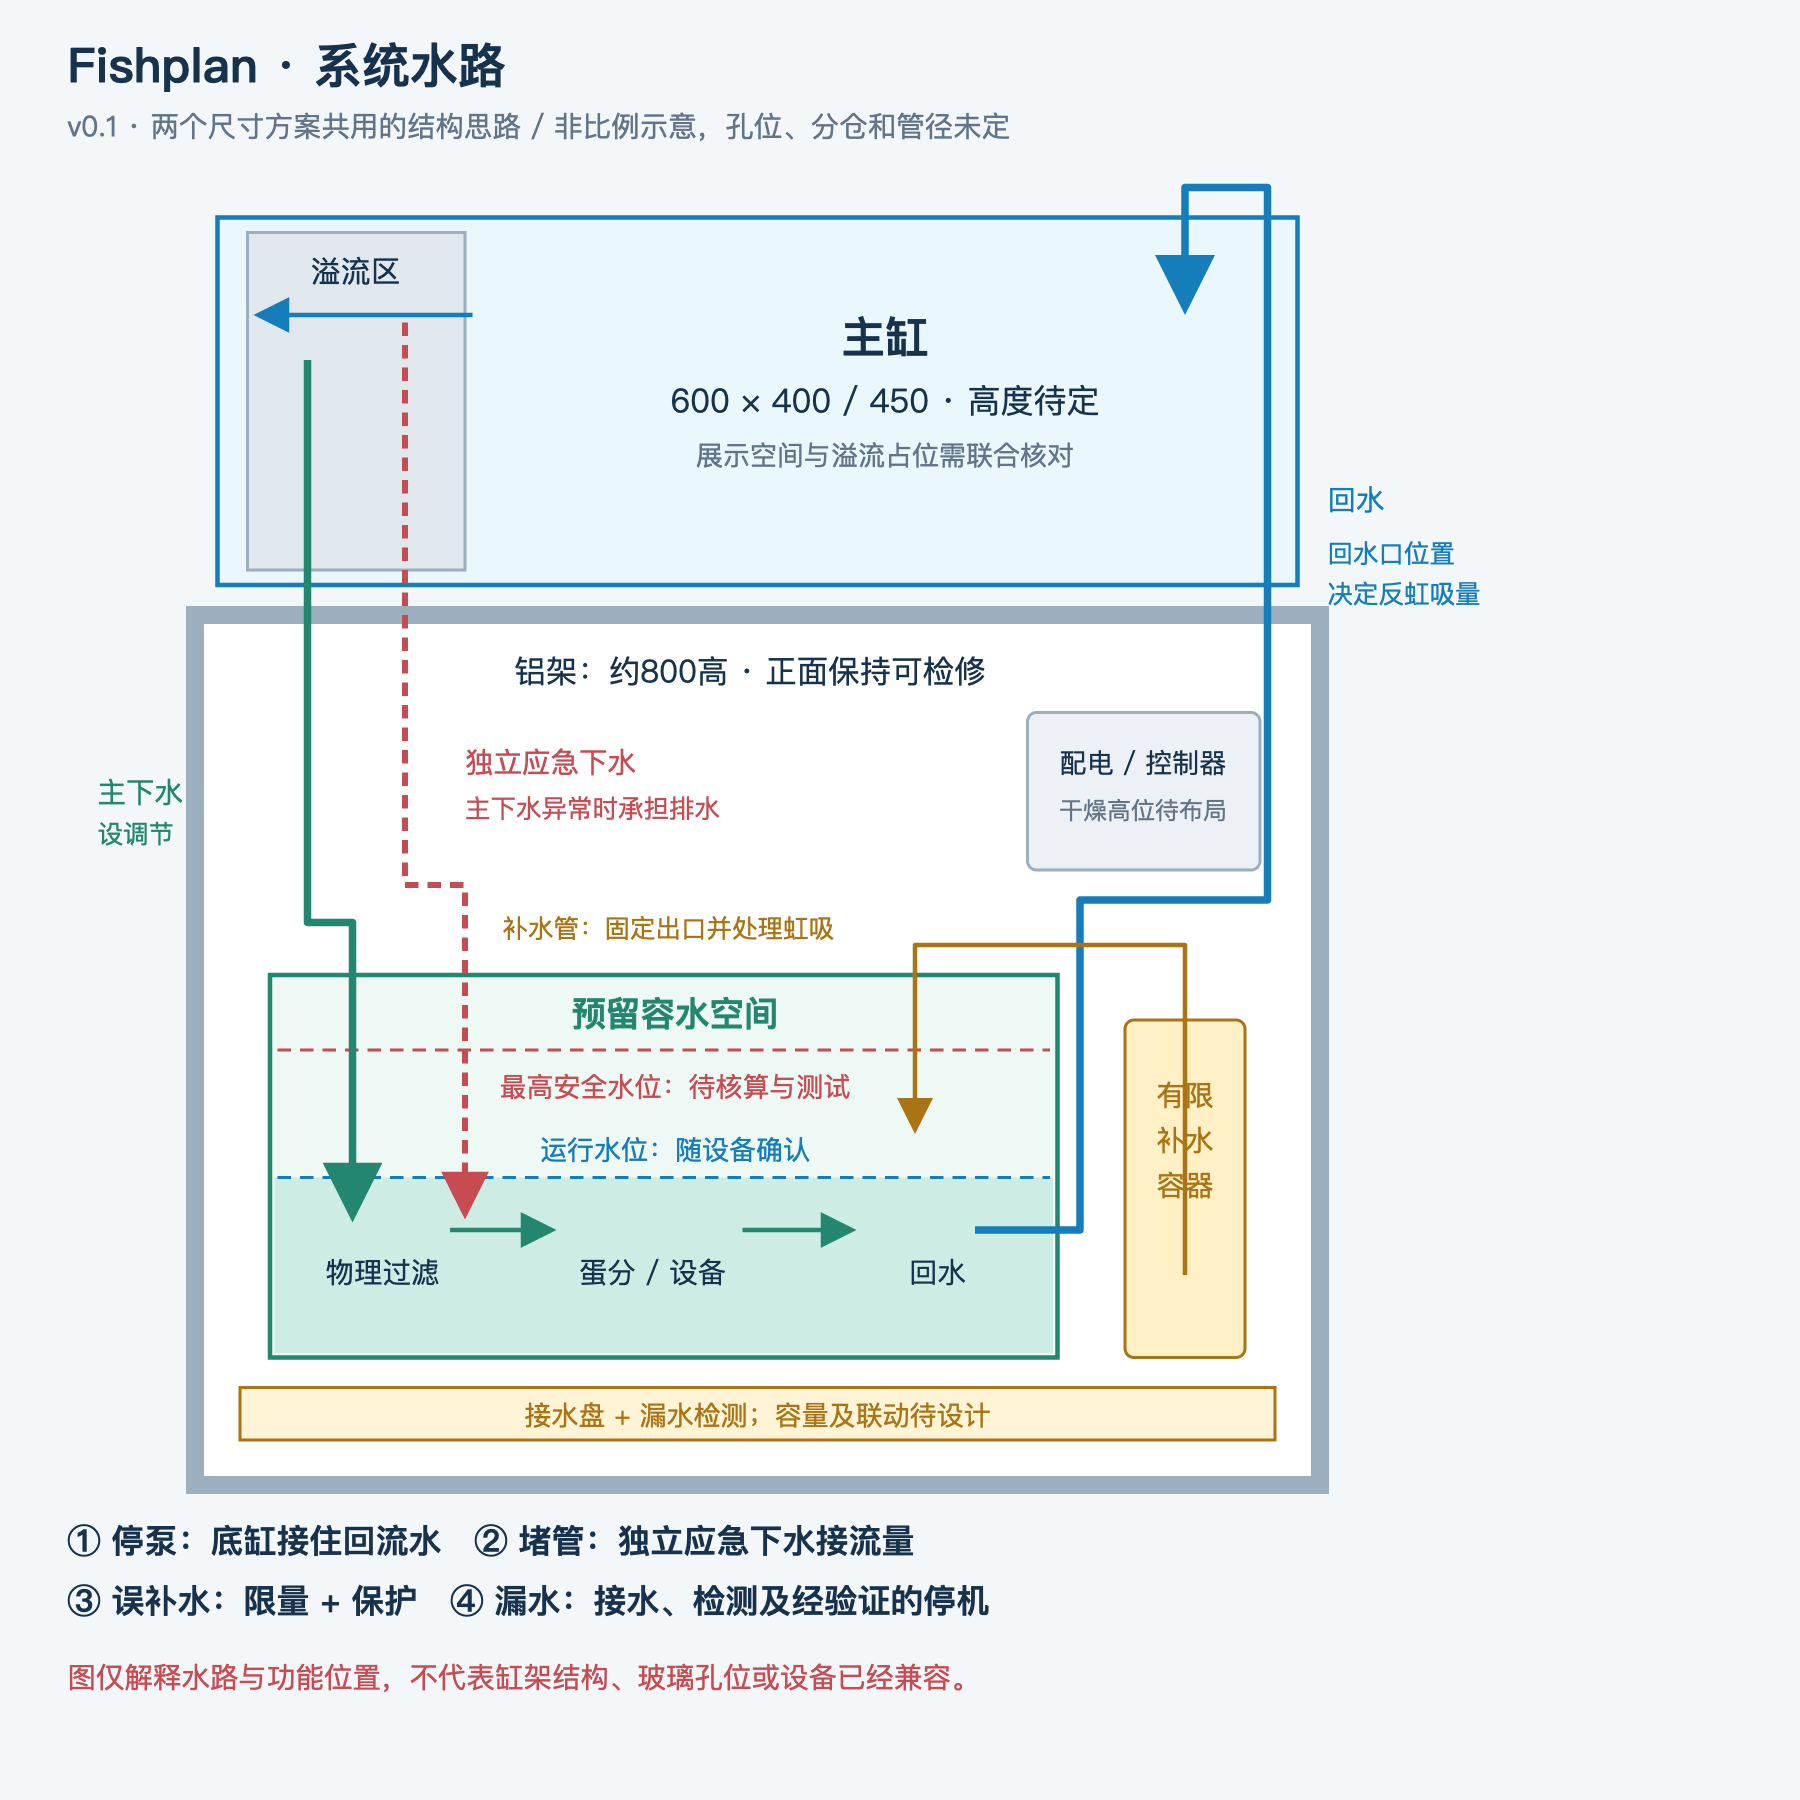
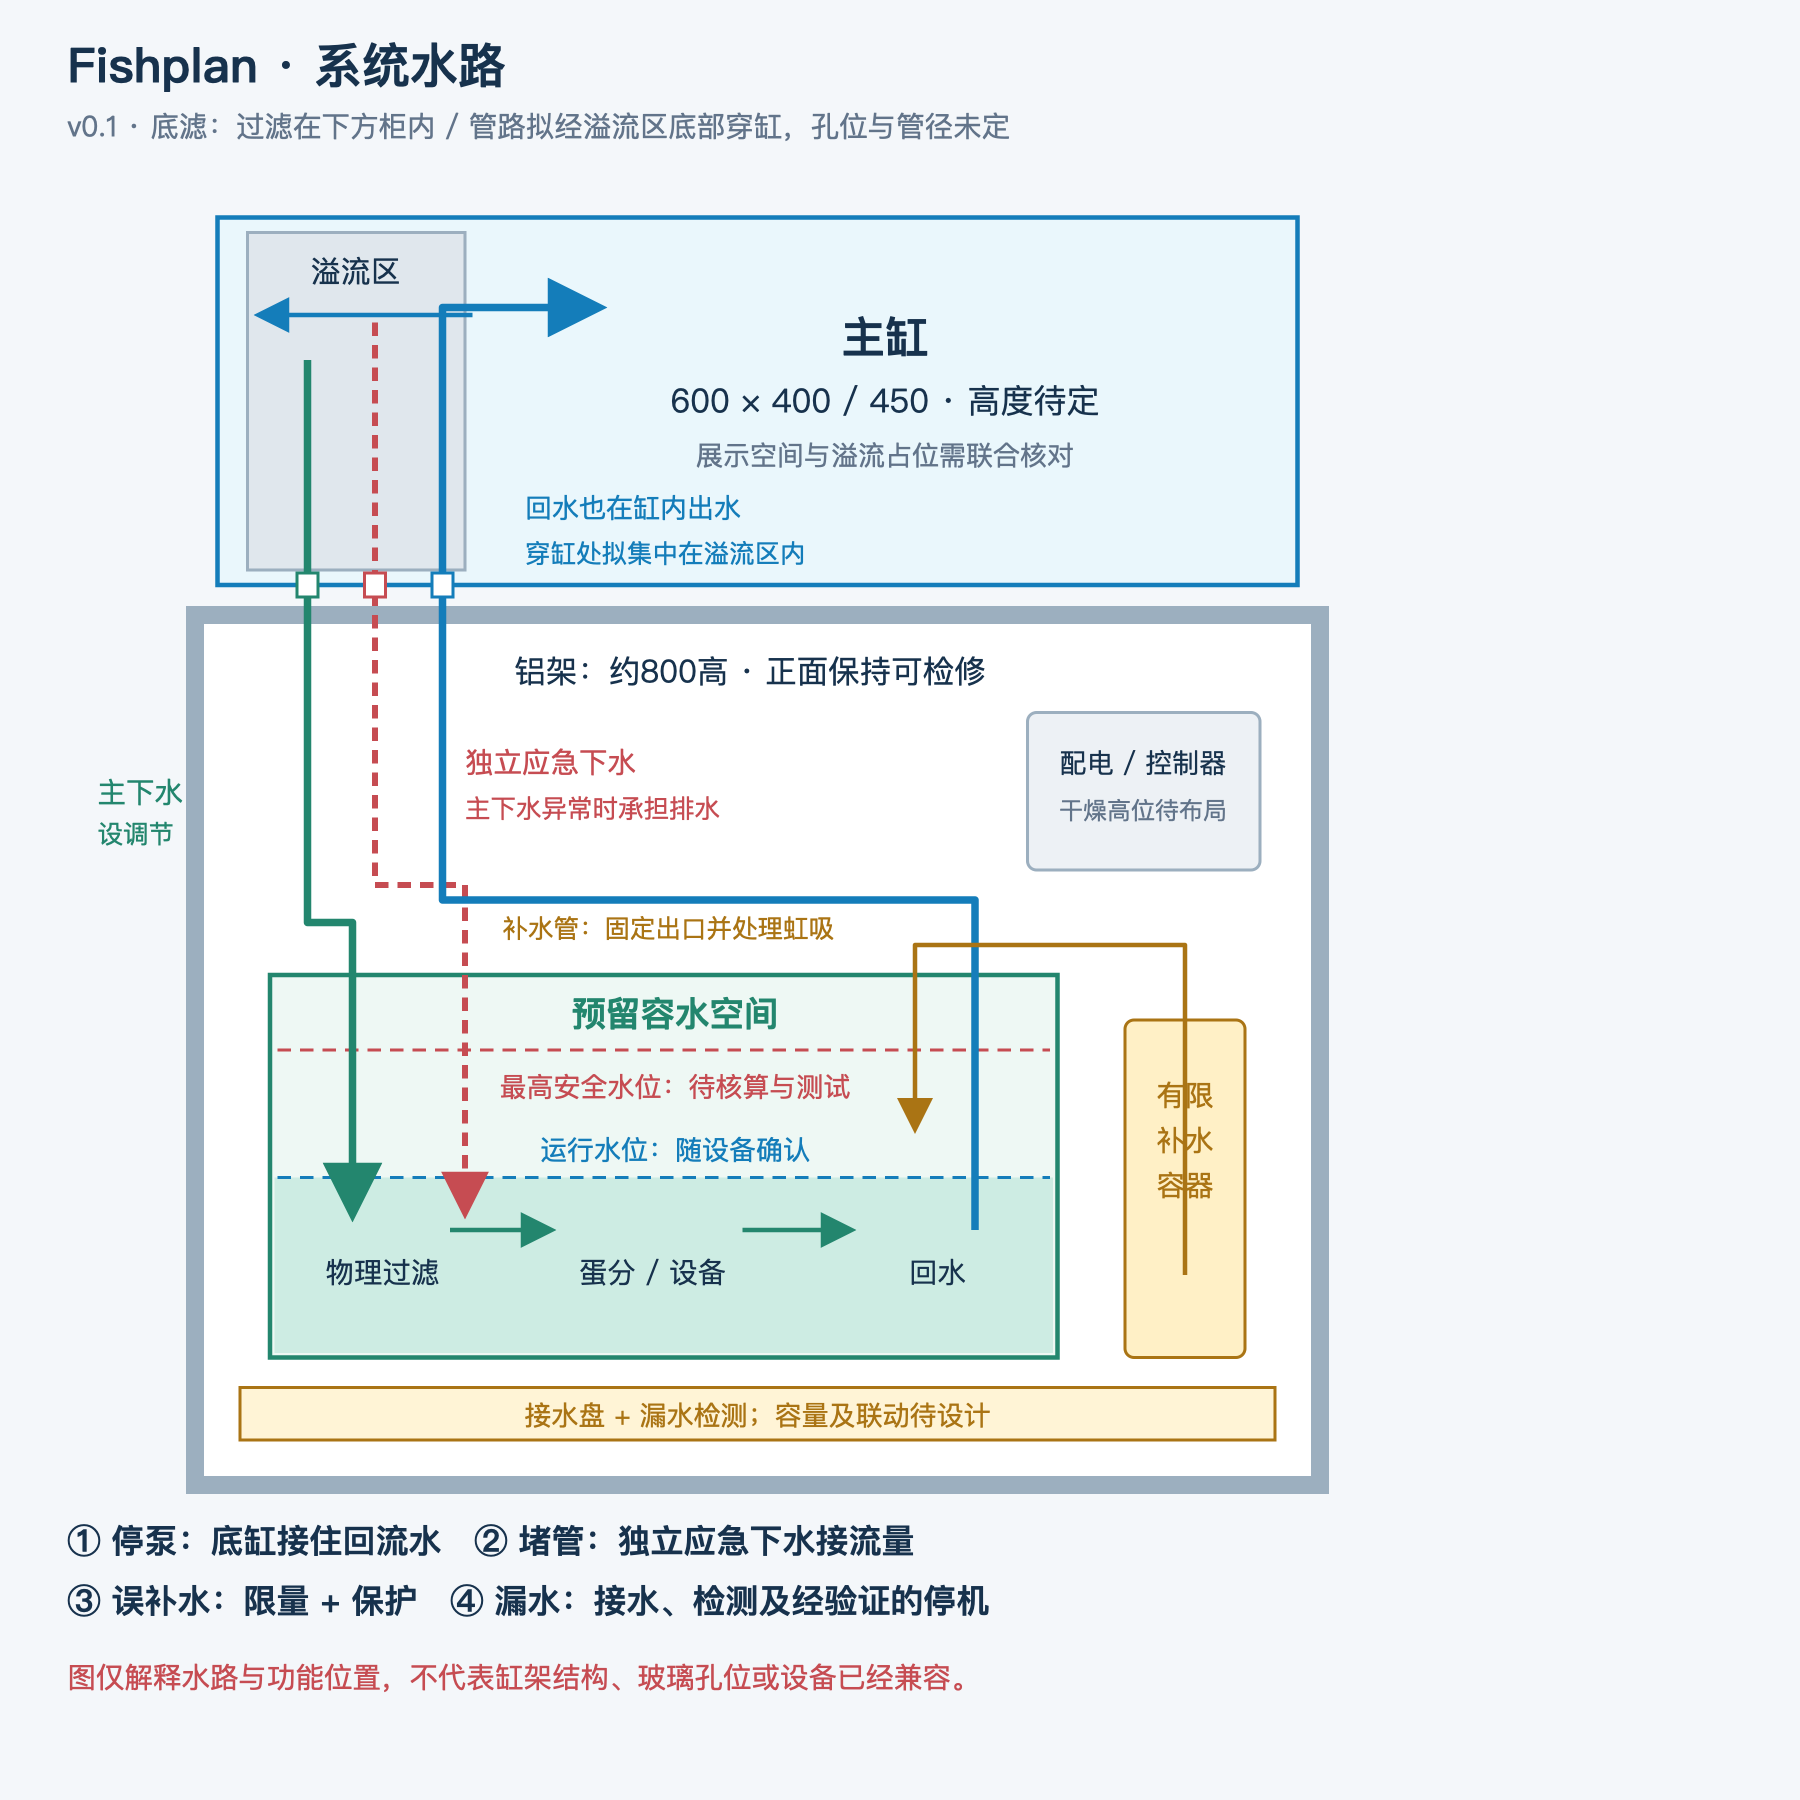
docs: explain overflow and internal plumbing and define noise acceptance

diff --git a/design/总体布局-v0.1.md b/design/总体布局-v0.1.md
@@ -37,12 +37,20 @@
 
 ## 2. 系统结构
 
+**本方案是底滤：主要过滤设备位于下方底缸。** 溢流区位于主缸角落，不等于背滤。初版水路图为便于辨认将回水线展开到了旁边，容易被理解成侧挂管；现已改为拟经溢流区底部穿缸、柜内连接的表达，具体孔位仍待制缸商及架梁共同核对。
+
+主缸表层水越过带缝入口进入溢流区，再经下水进入底缸，回水泵把处理后的水送回主缸。溢流区用于汇集表层水、建立排水水位及容纳下水管，不是主要滤材仓。入口减少鱼或较大杂物直接进入，但不能保证海葵、蜗牛等不会进入或堵塞，仍需维护。
+
+![溢流区的作用](溢流区说明-v0.1.svg)
+
+停泵后，经堰口这条路径的排水会随水位下降而停止；回水管仍可能反虹吸，不能因为有溢流区就省略底缸容水余量。
+
 ![系统水路示意](系统水路-v0.1.svg)
 
 图片备份：[PNG预览](系统水路-v0.1.png)。本图不按比例，管线交叉不表示相互接通。
 
 - 主缸后左侧暂放溢流功能区，利用左侧可达的条件检修；溢流尺寸和孔位需跟接头、玻璃孔距及架梁一起设计，图示不能直接用于开孔。
-- 主下水和应急下水保持独立。主下水调节日常流量，应急下水按设计最大实际回水量校核。
+- 主下水和应急下水保持独立。当前优先核验主虹吸下水＋独立应急下水的安静运行结构；主下水调节日常流量，应急下水按设计最大实际回水量校核。不能通过关小备用管换取静音。
 - 底缸先按物理过滤、蛋分或设备、回水三个功能区安排。暂不锁定分仓长度，不预置复杂滤材迷宫。
 - 回水泵、补水传感器设在适当的回水区域，设备可以从正面拆出。回水口与补水管分别核对虹吸，不把小孔或止回阀当作唯一保护。
 - 补水采用有限容量的独立容器，具体容量要跟可用余量和可接受添水频率一起选；示例的3 L、5 L不是最终采购规格或续航承诺。
@@ -81,6 +89,7 @@
 - 补水容器从正面添水或取出，管口固定。若窄区使操作过于费事，重新安排容器，不为了隐藏而牺牲易维护目标。
 - 换水时暂停补水，设备按水位需要启停；恢复循环、核对运行水位后再开启补水。
 - 初期开放架不能承诺隔音，蛋分进气、泵振动和未来冷水机均需选择及实测。后装洞洞板也不等于隔音板。
+- 用户补充：靠近卧室，家里人偶尔留宿。按[噪声设计与验收](../docs/噪声设计与验收.md)处理水声、设备振动与进气声，并在卧室和客厅实际睡位验收。必要时提前装可拆面板，不靠夜间关闭全部循环解决。
 
 ## 5. 进入下一阶段前的重点
 
@@ -93,3 +102,5 @@
 参照[项目推进计划](../DIY底滤海缸-项目推进计划.md)，现已开始第2阶段；本稿的设备空间尚未验证，不能越过后续设备选型、联合布局和详细设计。
 
 防漏原则及参考来源见[防漏与防溢设计要求](../docs/防漏与防溢设计要求.md)。本稿没有新增商家报价或已确认的商品兼容性。
+
+溢流原理与主虹吸下水参考：[BRS溢流与排水方式说明](https://www.bulkreefsupply.com/content/post/md-2017-08-durso-herbie-bean-animal-overflow)。

diff --git a/docs/噪声设计与验收.md b/docs/噪声设计与验收.md
@@ -1,0 +1,37 @@
+# 噪声设计与验收
+
+状态：需求及设计方向，尚未选定设备或实测。更新：2026-10-18。
+
+## 使用场景
+
+鱼缸靠近卧室，家里人偶尔留宿，客厅也可能有人睡觉。用户明确要求控制噪声。
+
+噪声是与防漏、维护便利并列的重要设计目标；防漏及应急排水能力不能为静音让步。尚未约定分贝数，不使用卖家“静音”标签或未经实测的数字承诺睡眠体验。
+
+## 设计方向
+
+| 声源 | 处理方向 | 必须保留的条件 |
+|---|---|---|
+| 溢流区落水 | 避免不必要的大落差，水位随系统调试 | 仍需预留水位变化、入口及应急排水能力 |
+| 下水吸气、咕噜声 | 优先核验主虹吸下水＋独立应急下水的结构，匹配回水量并调节 | 调节阀只用于主下水，不能以关小应急下水换取安静 |
+| 底缸落水、冒泡 | 设计合适的出水位置与正常运行水位，避免雨淋式大落差 | 末端位置不能妨碍应急排水、虹吸启动或检修 |
+| 回水与造浪泵 | 核对实际运行档位、异响和振动；按设备要求减振并支撑管路 | 保持必要的循环，不靠夜间关掉全部循环解决噪声 |
+| 蛋分进气与泵声 | 设备选型时核验，预留进气消音、拆洗和检修条件 | 不堵进气、不把运行需求让位于表面静音 |
+| 灯具风扇 | 选择时考虑散热方式及实际声音 | 不关闭必要散热强行降噪 |
+| 未来冷水机 | 将压缩机、风扇、启动声和散热位置单独考虑 | 不能假设藏进柜子就安静，不能牺牲散热或占用通道 |
+| 架子与后装面板 | 避免松动和共振，面板保持可拆；必要时提前装实体面板 | 洞洞板不作为可靠隔音层，不能为了隔音把柜体完全密闭 |
+
+初期开放架的声音会更直接暴露。先把水声和设备本体声音控制好，再评估是否需要提前装面板；面板不是核心降噪的替代品。
+
+## 验收方式
+
+1. 尽量在安静的夜间环境下记录无设备时的背景声。
+2. 单独运行回水、造浪、蛋分及其他实际需要的设备，再全部运行，识别主要声源。
+3. 在卧室实际床位、门按日常睡眠方式开闭，以及客厅临时睡位判断听感；记录稳定水流、启停、低频振动和气泡声。
+4. 如用手机测量，只作为同一位置和条件下的相对比较，不当作校准仪器或合规检测。
+5. 检查恢复供电时能否正常启动、进入稳定状态；应急管启动时的异常水声应保留辨识，不把异常声音简单隐藏。
+6. 未来增加冷水机或改面板后复测。记录实际运行设置与仍影响睡眠的声源，再决定整改。
+
+## 参考
+
+[BRS溢流与排水方式说明](https://www.bulkreefsupply.com/content/post/md-2017-08-durso-herbie-bean-animal-overflow)：主虹吸下水与独立备用管的结构，以及通过回水量和主下水调节降低吸气、落水噪声的思路。实际尺寸、管径和运行效果仍需本项目设计、测试。

diff --git a/HANDOFF.md b/HANDOFF.md
@@ -26,6 +26,7 @@
 - 当前工作路线是定做主缸、底缸，自组铝型材架和管路。用户没有天然偏爱底滤，只是讨论后认为这条DIY路线值得推进。
 - 优先淘宝，可接受闲鱼二手设备。用户不满意昂贵的品牌缸柜和偏向京东的采购建议。
 - 客厅有时住人，重视睡眠时的运行噪声。
+- 用户进一步确认靠近卧室、家里人偶尔留宿，噪声要作为明确设计和验收要求，详见噪声专项。初版水路图被误读成侧挂，已改为拟从主缸溢流区底部穿缸进入柜内的表达；这仍是底滤，不是背滤，孔位尚未设计。
 - 白天上班，不希望靠长期开空调给鱼缸降温。冷水机可后购，但布局时要预留。
 - 家有一只约5kg的猫。用户希望盖子放到后面具体处理，不能让防猫话题挤占当前设计讨论；相关安装接口需预留。
 - 用户还提出过“小米鱼缸2 Pro＋搓神大叔改装件”。目前作为未完成核验的备选，不是当前主线。不要把旧款小米鱼缸教程当作2 Pro兼容证明，也不要未经核验认定其套件价格或在售情况。
@@ -70,6 +71,7 @@
 - [需求清单](docs/需求清单.md)：后续更新的需求依据。
 - [防漏与防溢设计要求](docs/防漏与防溢设计要求.md)：故障场景、容量核算和验收方向，尚未验证。
 - [总体布局v0.1](design/总体布局-v0.1.md)：两版图示、容量算例及下一步核验项目。
+- [噪声设计与验收](docs/噪声设计与验收.md)：卧室和客厅留宿场景下的声源处理和实听要求。
 - [项目推进计划](DIY底滤海缸-项目推进计划.md)：设计、采购和验收顺序。
 - [历史方案说明](archive/README.md)：旧背滤方案的适用状态。
 - GitHub：https://github.com/Dynamite1847/Fishplan ，主分支为 main。

diff --git a/docs/需求清单.md b/docs/需求清单.md
@@ -23,7 +23,7 @@
 | 换水方式 | 希望方便从鱼缸抽出旧水，手动搬运水桶 | 以临时虹吸管或抽水泵为候选，不默认做自动换水或长期连接水池的管线 |
 | 防漏与防溢 | 木地板，楼下有邻居，用户要求不能漏水 | 最高优先设计目标；不能承诺绝对零风险，需设计、加工、安装和故障工况验收共同落实，见防漏专项要求 |
 | 饲养方向 | 小丑鱼＋珊瑚＋海葵；未来希望少量其他鱼，或增加小丑鱼 | 用户目标已明确；种类、数量及兼容性需评估，不能直接承诺多条小丑混养 |
-| 噪声 | 客厅有时住人 | 重要偏好；实际验收期望待确认 |
+| 噪声 | 靠近卧室，家里人偶尔留宿，客厅也可能有人睡觉 | 明确的重要设计与验收要求；设备、水声和未来冷水机都需考虑，见[噪声设计与验收](噪声设计与验收.md)，未承诺具体分贝或绝对静音 |
 | 预算 | 原约3000元，最新表示可适当调整 | 新的期望范围与费用边界待确认 |
 | 采购渠道 | 淘宝为主，接受二手设备 | 已知 |
 | 夏季温控 | 不靠长期开空调，冷水机可后购 | 设计预留安装、管线及散热空间 |

diff --git a/DIY底滤海缸-项目推进计划.md b/DIY底滤海缸-项目推进计划.md
@@ -6,7 +6,7 @@
 
 ## 一、目前已经知道的需求
 
-- 地点：上海，客厅墙角；左侧为过道，右侧为电视柜，电源在电视柜后，可引插排。有时有人在客厅睡觉，需要重视运行噪声。
+- 地点：上海，客厅墙角；左侧为过道，右侧为电视柜，电源在电视柜后，可引插排。靠近卧室，家里人偶尔留宿，客厅也可能有人睡觉，噪声为明确设计与验收要求，见[噪声专项](docs/噪声设计与验收.md)。
 - 最新尺寸偏好：长度不超过600mm，深度优先400mm，必要时可适当扩至约450mm；缸与架子的外尺寸应匹配。整体布局计入面板、突出件及安装余量。
 - 观看方式坐站均可，架高倾向约800mm，仍需结合维护空间定稿。
 - 希望主缸长期使用，后续设备可以调整。

diff --git a/README.md b/README.md
@@ -30,6 +30,8 @@
 
 [防漏与防溢设计要求](docs/防漏与防溢设计要求.md) 单列故障场景、容量核算与验收要求，尚待详细设计和实物验证。
 
+[噪声设计与验收](docs/噪声设计与验收.md) 对应靠近卧室、客厅偶尔留宿的使用场景，设备和运行声音尚待实际验证。
+
 尺寸、型材、设备型号和价格尚未定稿。历史估算不能作为商家报价或采购依据。
 
 ## 历史记录
